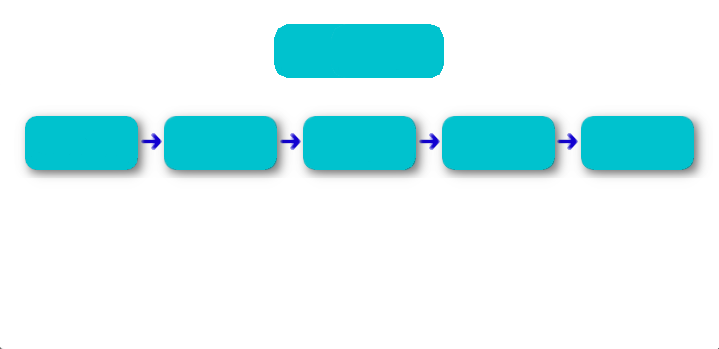
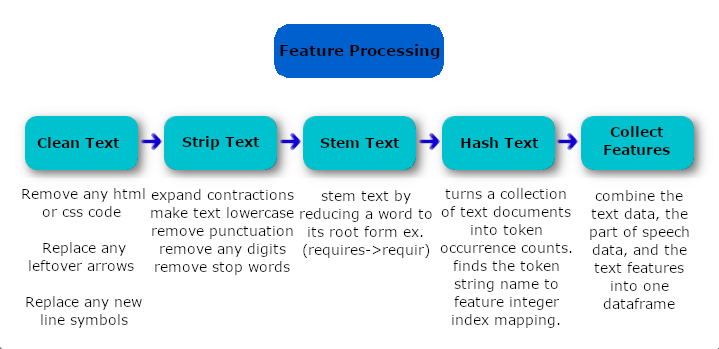
added image for feature processing

diff --git a/README.md b/README.md
@@ -15,31 +15,7 @@ Our data is manually tagged with each tag for each job having its own line. We h
 
 # Feature Processing
 
-feature processing
-
-clean text:
-remove any html or css code from the text
-replace any leftover arrows from the text
-replace any new line symboles
-
-strip text:
-
-expand any contractions
-make all the text lowercase
-remove any punucations
-remove any digits
-remove stopwords
-
-stem text:
-stem all the words
-
-scale pos features:
-scale the pos features to not distort the data
-
-hash text:
-use feature hashing to reduce feature size and allow model to learn new input words
-
-
+![Kiku](refs/feature_processing_img.png)
 
 # The Model
 
